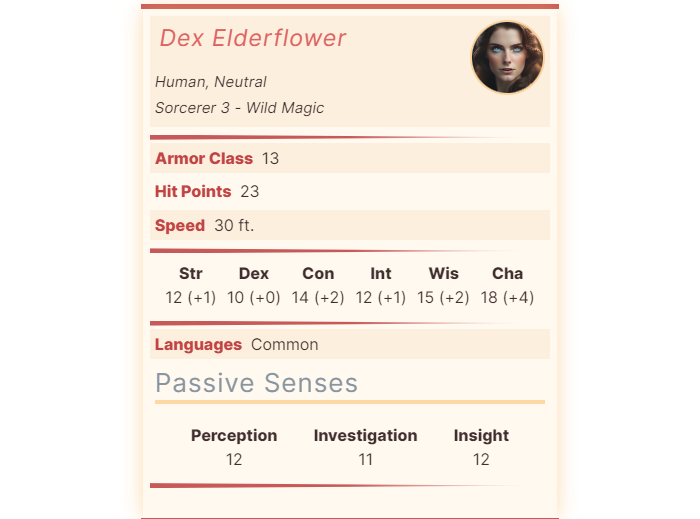
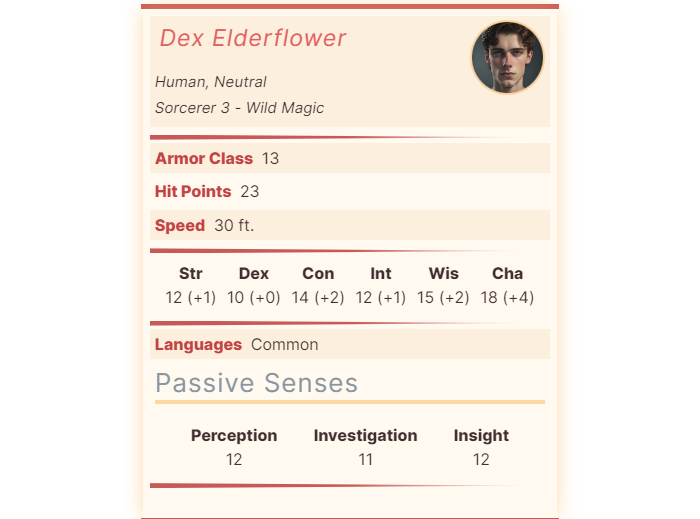
Quartz sync: Apr 15, 2024, 6:31 PM

Changed region(s): [[0.66, 0.0308, 0.78, 0.185]]

diff --git a/content/Brao'Drana Reborn/Campaign/~Workspace/Session Notes/Session 9.md b/content/Brao'Drana Reborn/Campaign/~Workspace/Session Notes/Session 9.md
@@ -21,7 +21,7 @@ date: 2024-04-09T19:30:00
 ---
 
 > [!Summary] Session Summary
-> 
+> Two years have passed since the unfortunate events at the [[B04 - Goblin Camp|goblin camp]] off the road to [[Berea]]. Due to scrutiny being thrown at [[The Long Patrol]] for allowing such a tragedy to happen, the faction has been struggling to find new members as of late. [[DaVinci]], [[Hattie Thornborne|Hattie]], and [[Lt. Buckminster Brusay d'Babincock]] are members of [[The Long Patrol]] that have returned from an unsuccessful trip to [[The Tripalium]] at [[Whiteshore]]. They find themselves in the harbor town of [[Brisay]]. [[Lt. Buckminster Brusay d'Babincock|Brusay]] decides the group should head to the [[Salty Mermaid Inn]] to "find easy targets" for recruitment. Elsewhere, by a [[Temple on a Hill]] near the town, [[Vino Vangard|Vino]], a follower of [[Deck of Dynarths|Dynarths]], follows her Deck to [[Anjali]], whom she finds staring at the stars. After a brief conversation with a [[Middle aged woman|middle aged woman]] from the Temple, [[Vino Vangard|Vino]] states that [[The Weaver]] is now guiding her and [[Anjali]] to the [[Salty Mermaid Inn]]. Inside the Inn, [[Sephirah Dieldiran|Sephirah]] and [[Occisus Verus Amare|Tacetus]] primarily keep to themselves. A tall dragonborn named [[Astra]] wargs [[Sephirah Dieldiran|Sephirah]] of strange going-ons in the area, in particular the fact that kobolds have been harassing the farmers of the North Pasture, but no one knows why yet. [[Occisus Verus Amare|Tacetus]], 15 drinks in and inspired by an incredible concoction of [[Pippin Gearspark]], lumbers over to a group of dwarves (+1 human) and converses with them. Finally, Dex, barrelling in from the north, covered in grime and earth, catches the eye of the [[Night's Watch]] stationed up there. After some talks of the Gods with [[Sister Nicole]], [[Dex Elderflower|Dex]] decides to head over to the [[Salty Mermaid Inn]] to turn in for the night. Now we head over to the Inn as we find all our various adventurers gathering together for the first time. 
 
 ^summary
 

diff --git a/content/Brao'Drana Reborn/Campaign/People/Player Characters/Dex Elderflower.md b/content/Brao'Drana Reborn/Campaign/People/Player Characters/Dex Elderflower.md
@@ -2,8 +2,8 @@
 type: Character
 world: Brao'Drana
 campaign: Severance
-race: 
-age: 
+race: Human
+age: "15"
 affiliations: 
 aliases:
   - O' Magic One
@@ -17,17 +17,17 @@ aliases:
 - 5'9"
 ```
 ai prompt
-+: female, brown hair, opal eyes, pale skin, half body, majestic
++: male teenager, short brown hair, opal eyes, pale skin, half body, majestic
 ```
 ---
 
 | STR | DEX | CON | INT | WIS | CHA |
 | :-: | :-: | :-: | :-: | :-: | :-: |
-|     |     |     |     |     |     |
+| +1  | +0  | +2  | +1  | +2  | +4  |
 
 | Passive Perception | Passive Investigation | Passive Insight |
 | :----------------: | :-------------------: | :-------------: |
-|                    |                       |                 |
+|         12         |          11           |       12        |
 
 ---
 
